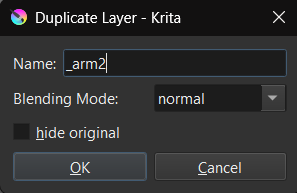
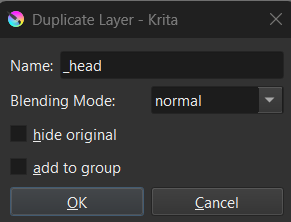
add to group function

diff --git a/lazy_tools/e_scripts/duplicate.py b/lazy_tools/e_scripts/duplicate.py
@@ -61,6 +61,11 @@ class DuplicateLayerDialog(QDialog):
         self.hide_original_checkbox.setChecked(False)
         layout.addWidget(self.hide_original_checkbox)
 
+        # Add to Group
+        self.add_to_group_checkbox = QCheckBox("add to group")
+        self.add_to_group_checkbox.setChecked(False)
+        layout.addWidget(self.add_to_group_checkbox)
+
         # Buttons
         button_layout = QHBoxLayout()
         ok_button = QPushButton("OK")
@@ -78,8 +83,9 @@ class DuplicateLayerDialog(QDialog):
         node_name = self.name_input.text().strip()
         blending_mode = self.blending_mode_combo.currentText()
         hide_original = self.hide_original_checkbox.isChecked()
+        add_to_group = self.add_to_group_checkbox.isChecked()
 
-        return (node_name, blending_mode, hide_original)
+        return (node_name, blending_mode, hide_original, add_to_group)
 
 
 class DuplicateLayerExtension(Extension):
@@ -108,11 +114,13 @@ class DuplicateLayerExtension(Extension):
             )
             if dialog.exec_() == QDialog.Accepted:
                 # Get values from dialog
-                (node_name, blending_mode, hide_original) = dialog.get_values()
+                (node_name, blending_mode, hide_original, add_to_group) = (
+                    dialog.get_values()
+                )
 
                 current_layer = doc.activeNode()
-
                 duplicated_layer = current_layer.duplicate()
+
                 if duplicated_layer:
                     parent = current_layer.parentNode()
                     if parent:
@@ -125,6 +133,24 @@ class DuplicateLayerExtension(Extension):
 
                         doc.setActiveNode(duplicated_layer)
                         doc.refreshProjection()
+
+                        if add_to_group:
+                            # Create a new group layer
+                            myGroup = doc.createGroupLayer(node_name)
+
+                            # Add the group at the position of the duplicated layer
+                            parent.addChildNode(myGroup, duplicated_layer)
+
+                            # Remove both layers from their current parent
+                            parent.removeChildNode(current_layer)
+                            parent.removeChildNode(duplicated_layer)
+
+                            # Add both layers into the group
+                            myGroup.addChildNode(current_layer, None)
+                            myGroup.addChildNode(duplicated_layer, current_layer)
+
+                            doc.setActiveNode(duplicated_layer)
+                            doc.refreshProjection()
                     else:
                         print("Could not find parent node")
 

diff --git a/README.md b/README.md
@@ -68,6 +68,7 @@ Duplicates the active layer with options:
 - **Layer Name** - Edit the name of the duplicated layer
 - **Blending Mode** - Change blending mode (for paint layer)
 - **Hide Original** - Hides the original layer after duplicating
+- **Add to Group** - Create a new group and move layers into it
 
 ### Usage
 
